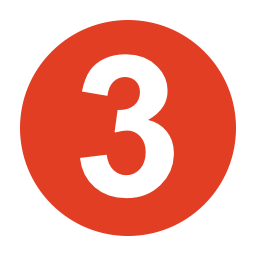
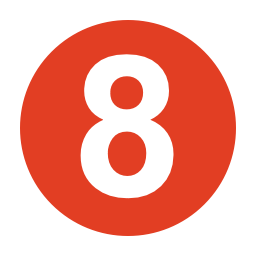
solformørkelse

diff --git a/nyheder.html b/nyheder.html
@@ -136,6 +136,66 @@
 
                                     <!-- begin journal element-->
                                     <div class="col-sm-6 col-md-4">
+                                        <a href="https://videnskab.dk/rummet/solformoerkelse-over-koebenhavn-kom-og-se-naar-solen-gaar-i-sort/" class="journal-el set-bg skin-yellow"><img src="./pics/solformørkelse-2026-vestamager.jpg" class="set-me">
+                                            <div class="contents">
+                                                <div class="header">
+                                                    <h6>12 Aug 2026</h6>
+                                                </div>
+                                                <div class="footer">
+                                                    <h6 class="sub-title">Formidling</h6>
+                                                    <h2 class="title">I aften er den store aften. Vejret ser godt ud, og rumforsker Jens Frydenvang, biolog Jes Aagaard og jeg skal snakke om solformørkelsen på Vestamager, syd for København.</h2>
+                                                </div>
+                                            </div></a>
+                                    </div>
+                                    <!-- end journal element-->
+
+                                    <!-- begin journal element-->
+                                    <div class="col-sm-6 col-md-4">
+                                        <a href="https://www.kristeligt-dagblad.dk/danmark/astrofysiker-forstaar-godt-solformoerkelser-skabte-tro-paa-fenrisulven-havde-slugt-solen" class="journal-el set-bg skin-yellow"><img src="./pics/kristeligt-dagblad-solformørkelse.jpg" class="set-me">
+                                            <div class="contents">
+                                                <div class="header">
+                                                    <h6>11 Aug 2026</h6>
+                                                </div>
+                                                <div class="footer">
+                                                    <h6 class="sub-title">Formidling</h6>
+                                                    <h2 class="title">Anja C. Andersen og jeg har snakket med Kristeligt Dagblad om solformørkelsen.</h2>
+                                                </div>
+                                            </div></a>
+                                    </div>
+                                    <!-- end journal element-->
+
+                                    <!-- begin journal element-->
+                                    <div class="col-sm-6 col-md-4">
+                                        <a href="https://videnskab.dk/rummet/stor-chance-for-stjerneskud-vild-meteorregn-foelger-lige-efter-solformoerkelsen/" class="journal-el set-bg skin-yellow"><img src="./pics/videnskab-dk-solformørkelse-perseider.jpg" class="set-me">
+                                            <div class="contents">
+                                                <div class="header">
+                                                    <h6>11 Aug 2026</h6>
+                                                </div>
+                                                <div class="footer">
+                                                    <h6 class="sub-title">Formidling</h6>
+                                                    <h2 class="title">Solformørkelsen falder sammen med at Perseiderne peaker — jeg har snakket med videnskab.dk.</h2>
+                                                </div>
+                                            </div></a>
+                                    </div>
+                                    <!-- end journal element-->
+
+                                    <!-- begin journal element-->
+                                    <div class="col-sm-6 col-md-4">
+                                        <a href="./pics/perseider-2026-11-15-aug.png" class="ol-lightbox journal-el set-bg skin-green"><img src="./pics/perseider-2026.jpg" class="set-me">
+                                            <div class="contents">
+                                                <div class="header">
+                                                    <h6>10 Jul 2026</h6>
+                                                </div>
+                                                <div class="footer">
+                                                    <h6 class="sub-title">Formidling</h6>
+                                                    <h2 class="title">Jeg har gjort en forudsigelse for det forventede antal Perseider. Den grønne kurve er i byen med udsigten blokeret af nogle bygninger; den blå kurve er udenfor byen.</h2>
+                                                </div>
+                                            </div></a>
+                                    </div>
+                                    <!-- end journal element-->
+
+                                    <!-- begin journal element-->
+                                    <div class="col-sm-6 col-md-4">
                                         <a href="https://jyllands-posten.dk/nyviden/ECE19529342/her-er-astrofysikerens-bedste-raad-til-solformoerkelsen-hvis-du-ikke-har-faaet-fat-i-et-par-briller-kan-du-goere-noget-der-er-ret-sejt/?shareToken=qfd23e8vvngkp0qrki0pfarb" class="journal-el set-bg skin-yellow"><img src="./pics/solformørkelse-jyllandsposten.jpg" class="set-me">
                                             <div class="contents">
                                                 <div class="header">

diff --git a/news.html b/news.html
@@ -136,6 +136,66 @@
 
                                     <!-- begin journal element-->
                                     <div class="col-sm-6 col-md-4">
+                                        <a href="https://videnskab.dk/rummet/solformoerkelse-over-koebenhavn-kom-og-se-naar-solen-gaar-i-sort/" class="journal-el set-bg skin-yellow"><img src="./pics/solformørkelse-2026-vestamager.jpg" class="set-me">
+                                            <div class="contents">
+                                                <div class="header">
+                                                    <h6>12 Aug 2026</h6>
+                                                </div>
+                                                <div class="footer">
+                                                    <h6 class="sub-title">Outreach</h6>
+                                                    <h2 class="title">Tonight's the big night. The weather looks good, and space scientist Jens Frydenvang, biologist Jes Aagaard, and I will be talking about the eclipse at Vestamager, the flatlands south of Cph.</h2>
+                                                </div>
+                                            </div></a>
+                                    </div>
+                                    <!-- end journal element-->
+
+                                    <!-- begin journal element-->
+                                    <div class="col-sm-6 col-md-4">
+                                        <a href="https://www.kristeligt-dagblad.dk/danmark/astrofysiker-forstaar-godt-solformoerkelser-skabte-tro-paa-fenrisulven-havde-slugt-solen" class="journal-el set-bg skin-yellow"><img src="./pics/kristeligt-dagblad-solformørkelse.jpg" class="set-me">
+                                            <div class="contents">
+                                                <div class="header">
+                                                    <h6>11 Aug 2026</h6>
+                                                </div>
+                                                <div class="footer">
+                                                    <h6 class="sub-title">Outreach</h6>
+                                                    <h2 class="title">Anja C. Andersen and I talked to Kristeligt Dagblad about solar eclipses.</h2>
+                                                </div>
+                                            </div></a>
+                                    </div>
+                                    <!-- end journal element-->
+
+                                    <!-- begin journal element-->
+                                    <div class="col-sm-6 col-md-4">
+                                        <a href="https://videnskab.dk/rummet/stor-chance-for-stjerneskud-vild-meteorregn-foelger-lige-efter-solformoerkelsen/" class="journal-el set-bg skin-yellow"><img src="./pics/videnskab-dk-solformørkelse-perseider.jpg" class="set-me">
+                                            <div class="contents">
+                                                <div class="header">
+                                                    <h6>11 Aug 2026</h6>
+                                                </div>
+                                                <div class="footer">
+                                                    <h6 class="sub-title">Outreach</h6>
+                                                    <h2 class="title">The solar eclipse coincides with the peak of the Perseids — I talked to videnskab.dk.</h2>
+                                                </div>
+                                            </div></a>
+                                    </div>
+                                    <!-- end journal element-->
+
+                                    <!-- begin journal element-->
+                                    <div class="col-sm-6 col-md-4">
+                                        <a href="./pics/perseider-2026-11-15-aug.png" class="ol-lightbox journal-el set-bg skin-green"><img src="./pics/perseider-2026.jpg" class="set-me">
+                                            <div class="contents">
+                                                <div class="header">
+                                                    <h6>10 Jul 2026</h6>
+                                                </div>
+                                                <div class="footer">
+                                                    <h6 class="sub-title">Outreach</h6>
+                                                    <h2 class="title">I made a prediction for this year's expected number of Perseids. Green curve is from the city with some buildings obstructing the view; blue curve is outside the city.</h2>
+                                                </div>
+                                            </div></a>
+                                    </div>
+                                    <!-- end journal element-->
+
+                                    <!-- begin journal element-->
+                                    <div class="col-sm-6 col-md-4">
                                         <a href="https://jyllands-posten.dk/nyviden/ECE19529342/her-er-astrofysikerens-bedste-raad-til-solformoerkelsen-hvis-du-ikke-har-faaet-fat-i-et-par-briller-kan-du-goere-noget-der-er-ret-sejt/?shareToken=qfd23e8vvngkp0qrki0pfarb" class="journal-el set-bg skin-yellow"><img src="./pics/solformørkelse-jyllandsposten.jpg" class="set-me">
                                             <div class="contents">
                                                 <div class="header">
